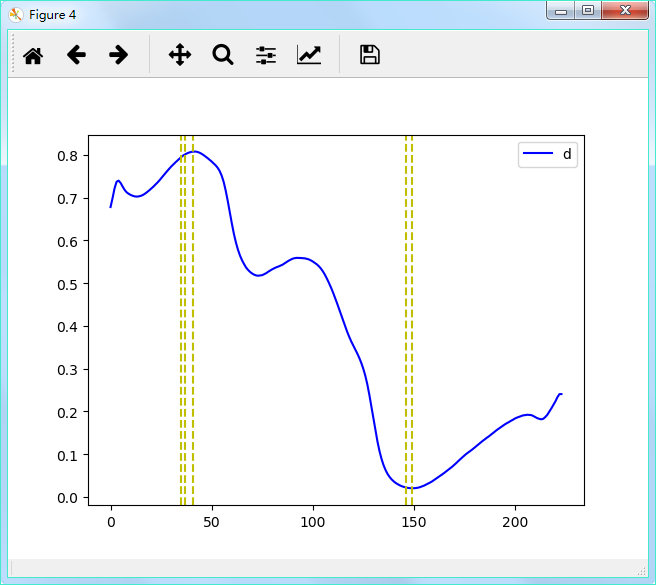
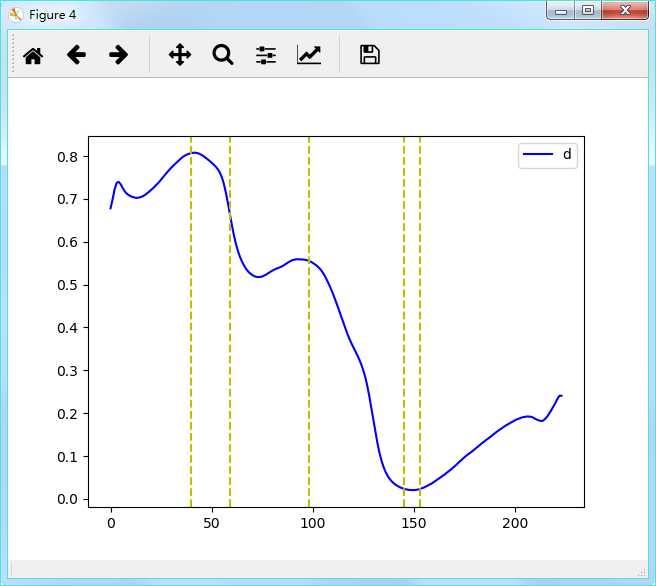
update

diff --git a/README.md b/README.md
@@ -298,15 +298,15 @@ plt.figure()
 plt.imshow(data[:, :, 100], cmap='gray')
 plt.show()
 
-data = data[213:263, 170:212, :]
+data_roi = data[213:263, 170:212, :]
 
 x, y, z = data.shape
 
 plt.figure()
-plt.imshow(data[:, :, 100], cmap='gray')
+plt.imshow(data_roi[:, :, 100], cmap='gray')
 plt.show()
 
-bs_cem = hCM.CEM_BDM(data[:, :, 30:200], 5)
+bs_cem = hCM.CEM_BDM(data_roi[:, :, 30:200], 5)
 bs_cem = bs_cem + 30
 
 plt.figure()
@@ -316,7 +316,8 @@ for i in range(bs_cem.shape[0]):
 plt.legend()
 plt.show()
 
-bs_ctbs = hCBM.SF_CTBS(data, d, 5)
+bs_ctbs = hCBM.SF_CTBS(data[:, :, 30:200], d[30:200], 5)
+bs_ctbs = bs_ctbs + 30
 
 plt.figure()
 plt.plot(d, 'b', label='d')
